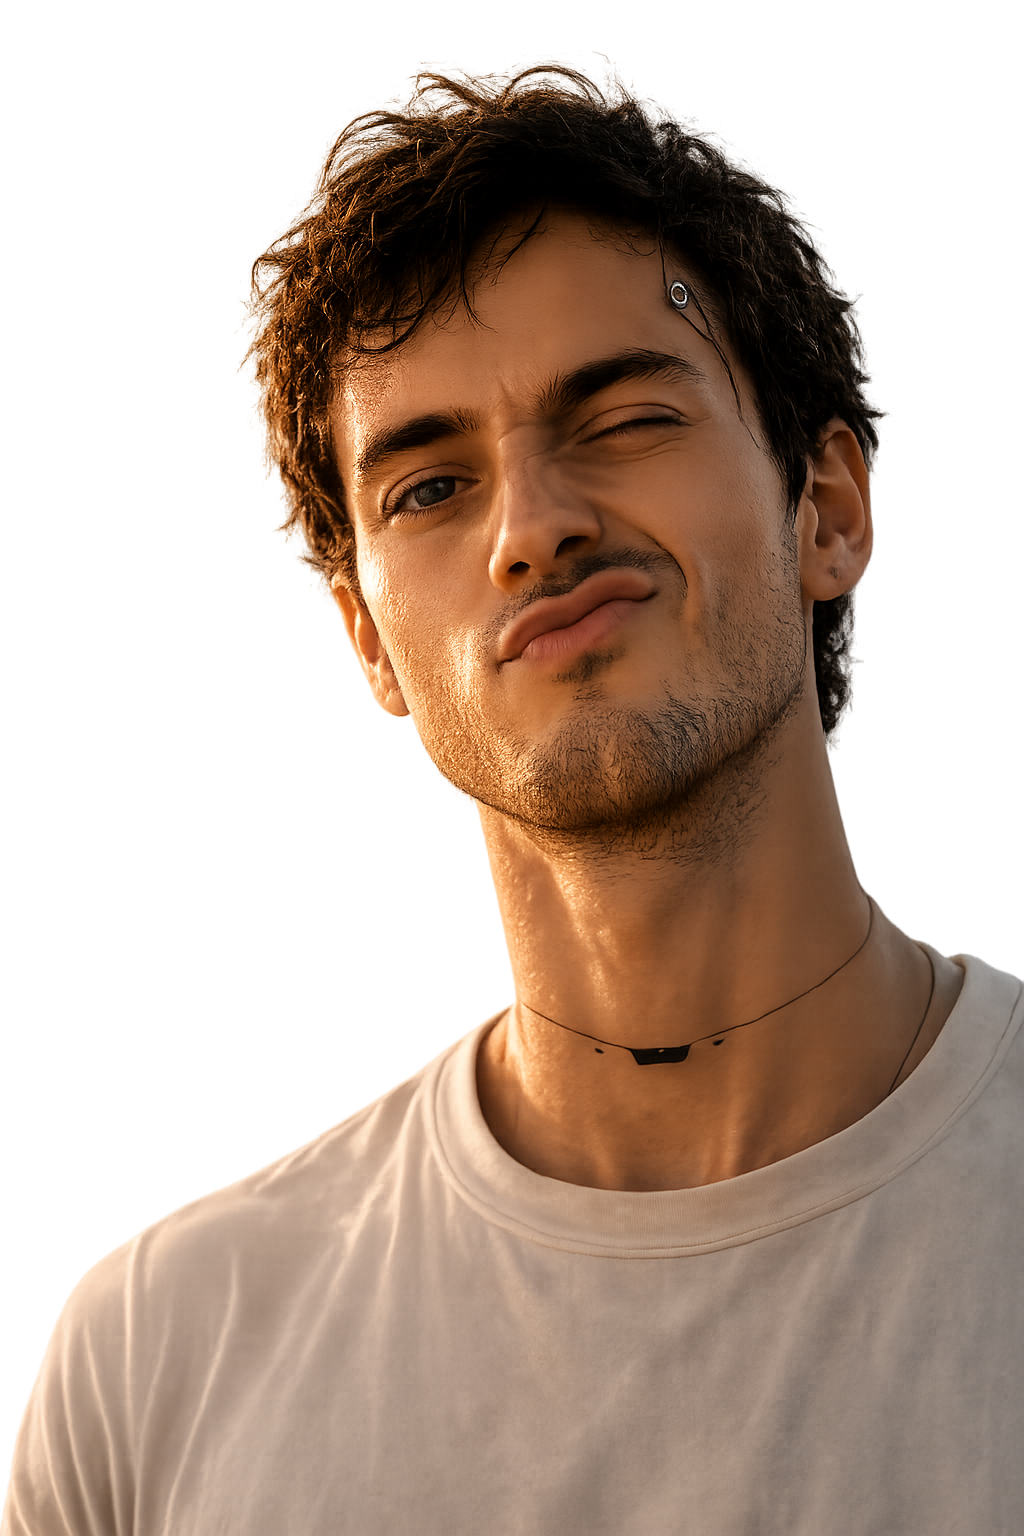
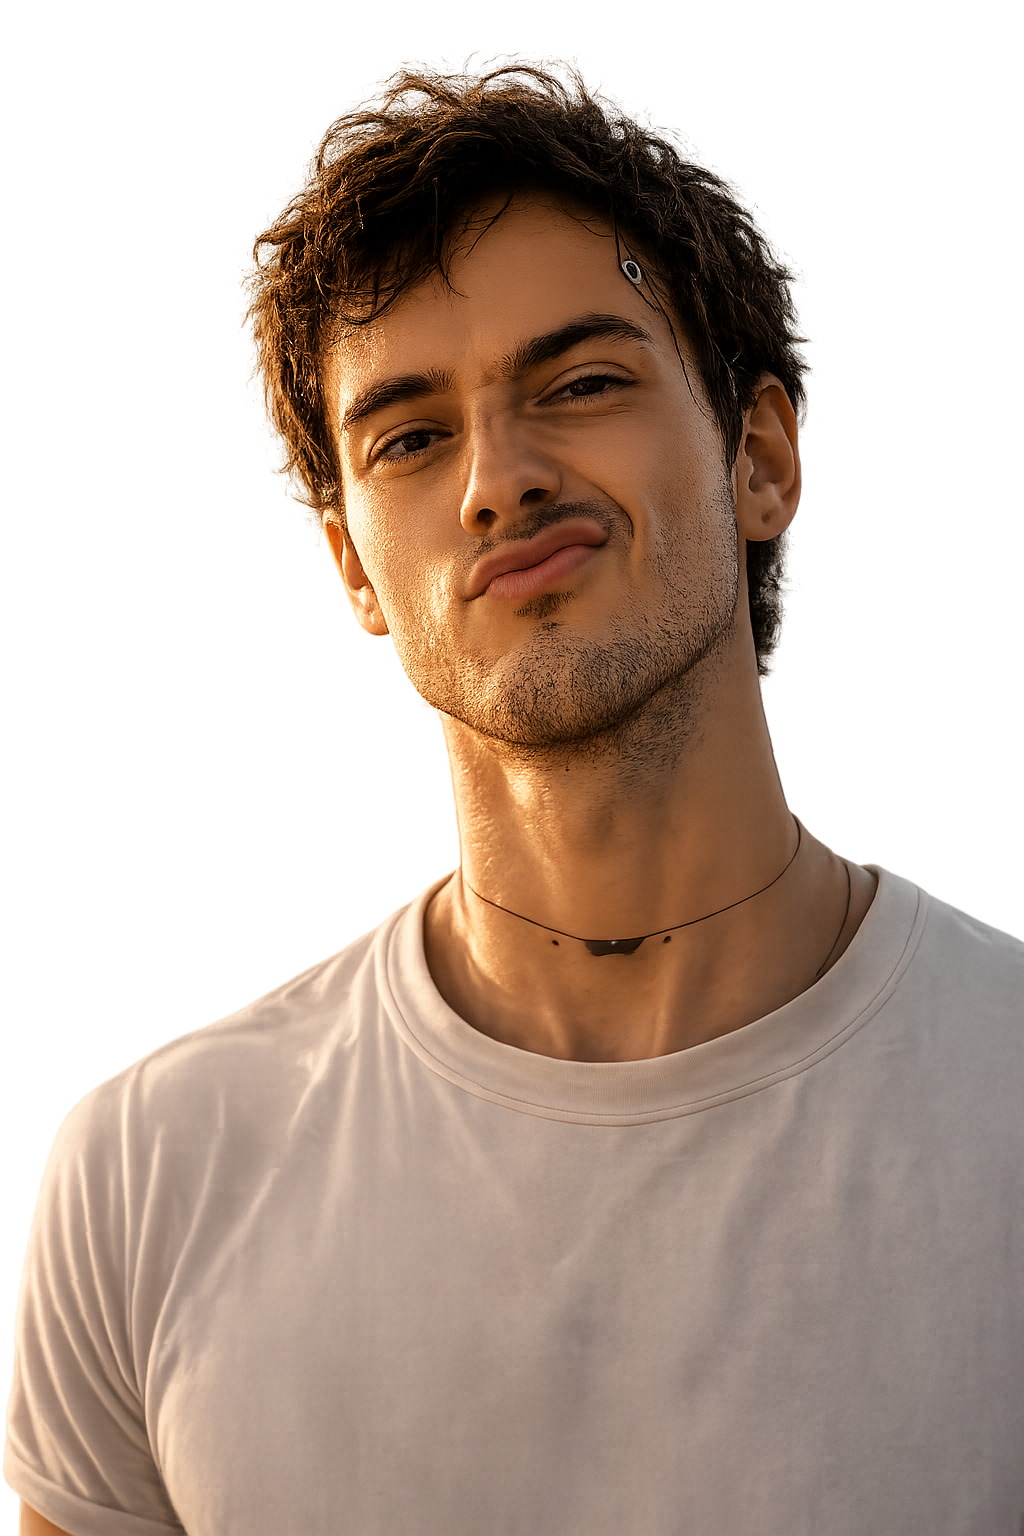
fix: handleMySpaceClick member tier, session guard profile reload, medallion photos updated

diff --git a/src/components/Hero.tsx b/src/components/Hero.tsx
@@ -258,15 +258,12 @@ export default function Hero({ onStart, onReports, onAbout, onMySpace, memberTie
 
   // ── Logique My Space : session active → direct, sinon → modal login
   const handleMySpaceClick = () => {
-    if (memberTier === 'premium' || memberTier === 'executive') {
-      onMySpace()
-    } else if (memberTier === 'member') {
-      setShowMySpaceModal(true)
-    } else {
-      setShowMySpaceModal(true)
-    }
+  if (memberTier === 'guest') {
+    setShowMySpaceModal(true)
+  } else {
+    onMySpace()
   }
-
+}
   return (
     <section
       className="fixed inset-0 overflow-hidden bg-cover bg-center"

diff --git a/src/app/[locale]/page.tsx b/src/app/[locale]/page.tsx
@@ -518,6 +518,18 @@ setPendingStep(true)
               <button
                onClick={async () => {
   setShowSessionGuard(false)
+  const { data: { user } } = await supabase.auth.getUser()
+  if (user) {
+    const { data: profile } = await supabase
+      .from('profiles')
+      .select('member_tier, full_name, email, bg_character')
+      .eq('id', user.id)
+      .single()
+    if (profile?.member_tier) setMemberTier(profile.member_tier as 'guest' | 'member' | 'premium' | 'executive')
+    if (profile?.full_name) setFullName(profile.full_name)
+    if (profile?.email) setEmail(profile.email)
+    if ((profile as any)?.bg_character) setCachedBgCharacter((profile as any).bg_character)
+  }
   await handleGoToMySpace()
 }}
                 className="relative w-full rounded-full border border-[#C7AC60]/30 bg-[#C7AC60]/10 py-3.5 text-[11px] uppercase tracking-[0.25em] text-[#C7AC60] transition hover:bg-[#C7AC60]/20"